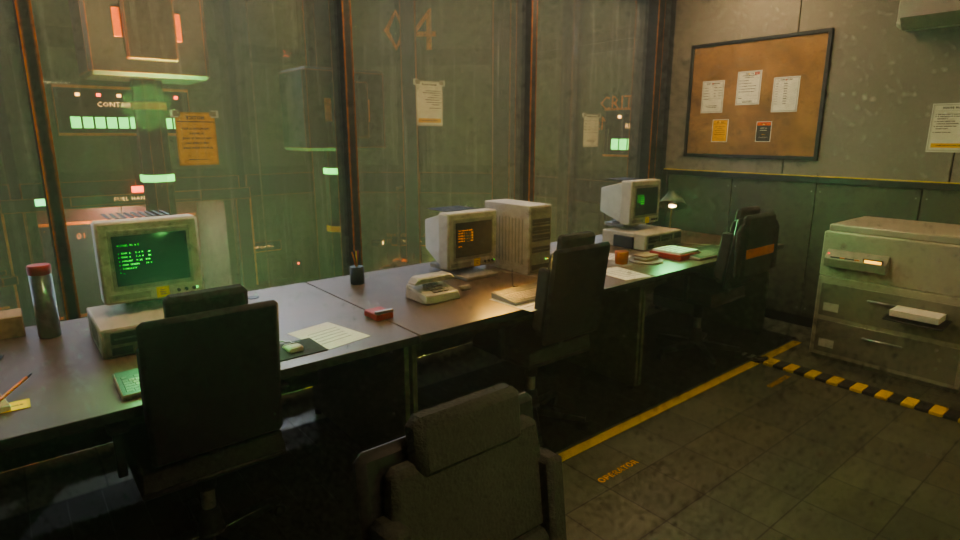
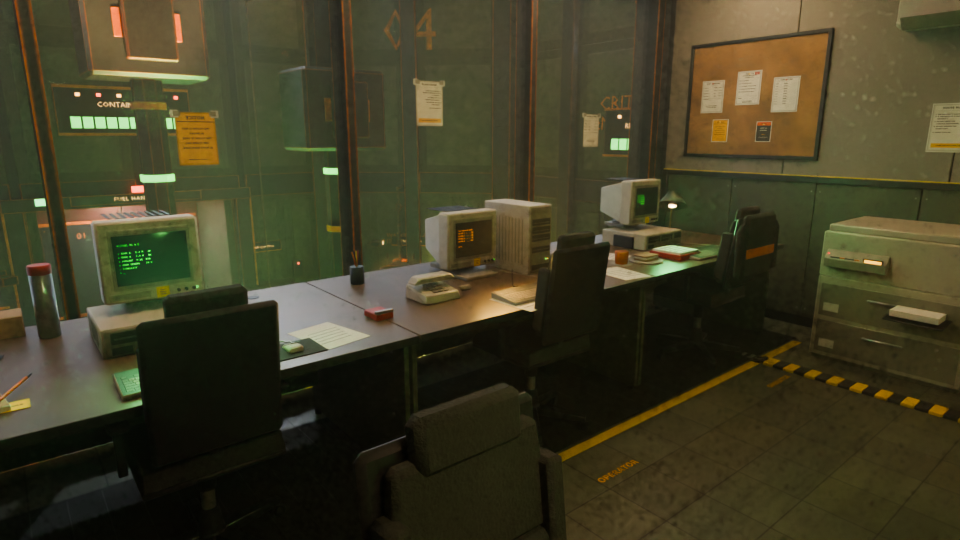
Control room: window glass fully clear (no film, streaks or tint)
Claude-Session: https://claude.ai/code/session_01MZn6W3mktoSNAd4EhQyGwJ

diff --git a/sections/reactor-room/production/overhaul-R1/scripts/cr_extra.py b/sections/reactor-room/production/overhaul-R1/scripts/cr_extra.py
@@ -1,4 +1,4 @@
-"""Second pass on the control room: door leaf, grime and floor work, emergency beacons, personal desk items, dirty hall-side glass with notices,
+"""Second pass on the control room: door leaf, grime and floor work, emergency beacons, personal desk items, clear hall-side glass with taped notices,
 wall lettering and floor markings, collision proxies, haze.  Each function is independent and idempotent with cr_build.py."""
 import bpy,math,random
 import numpy as np
@@ -103,16 +103,9 @@ def window_dressing(c):
     A,M=c.A,c.M; _misc_mats(c); g="glassnote"
     gl=bpy.data.objects.get("MZ window glass")
     if gl:
-        m=crk._new("CR window glass dirty"); nt=m.node_tree
+        m=crk._new("CR window glass clear"); nt=m.node_tree                                                                                 # clear on request: no film, no streaks, no tint
         out=crk._n(nt,"ShaderNodeOutputMaterial",900,0); b=crk._n(nt,"ShaderNodeBsdfPrincipled",600,0); nt.links.new(b.outputs['BSDF'],out.inputs['Surface'])
-        b.inputs['Base Color'].default_value=(0.55,0.58,0.57,1); b.inputs['IOR'].default_value=1.45
-        b.inputs['Base Color'].default_value=(0.62,0.64,0.63,1)
-        geo=crk._n(nt,"ShaderNodeNewGeometry",-900,0); mp=crk._n(nt,"ShaderNodeMapping",-700,0); mp.inputs['Scale'].default_value=(9.0,9.0,0.45); nt.links.new(geo.outputs['Position'],mp.inputs['Vector'])   # vertical run streaks
-        n1=crk._n(nt,"ShaderNodeTexNoise",-500,100); n1.inputs['Scale'].default_value=2.4; n1.inputs['Detail'].default_value=4.0; nt.links.new(mp.outputs['Vector'],n1.inputs['Vector'])
-        r1=crk._n(nt,"ShaderNodeMapRange",-250,100); r1.inputs['From Min'].default_value=0.60; r1.inputs['From Max'].default_value=0.80; nt.links.new(n1.outputs['Fac'],r1.inputs['Value'])     # sparse streaks only
-        ra=crk._n(nt,"ShaderNodeMath",0,150); ra.operation='MULTIPLY_ADD'; ra.inputs[1].default_value=0.20; ra.inputs[2].default_value=0.10; nt.links.new(r1.outputs['Result'],ra.inputs[0])             # alpha 0.10 clear .. 0.30 streak
-        rr=crk._n(nt,"ShaderNodeMath",0,-50); rr.operation='MULTIPLY_ADD'; rr.inputs[1].default_value=0.30; rr.inputs[2].default_value=0.03; nt.links.new(r1.outputs['Result'],rr.inputs[0])             # roughness 0.03 .. 0.33
-        nt.links.new(rr.outputs['Value'],b.inputs['Roughness']); nt.links.new(ra.outputs['Value'],b.inputs['Alpha'])
+        b.inputs['Base Color'].default_value=(0.95,0.97,0.96,1); b.inputs['IOR'].default_value=1.45; b.inputs['Roughness'].default_value=0.0; b.inputs['Alpha'].default_value=0.03   # faint reflection only
         gl.data.materials.clear(); gl.data.materials.append(m)
     for (k,x,z,w,h) in (("form",-3.55,7.12,0.21,0.30),("safety",-2.30,6.98,0.21,0.29),("rules",-0.72,7.22,0.23,0.31),("roster",1.05,7.04,0.21,0.29)):
         wall_quad(c,'+y',-5.99,x,z,w,h,"N_"+k,frame=False,off=0.0015,g=g,paper=False)

diff --git a/sections/reactor-room/production/overhaul-R1/README.md b/sections/reactor-room/production/overhaul-R1/README.md
@@ -230,3 +230,7 @@ Order after `cr_build.py`: `cr_optimize.py` -> `cr_atlas_decals.py` -> `cr_famil
 ### Walk-through video
 
 `scripts/cr_flythrough.py -- <blend> <out_dir> [--frames 48 --w 854 --h 480 --samples 8]` renders an eye-height route through the control room (door, shelves, work table, TV wall, rack, desks, window, out over the hall) as a PNG sequence plus a contact sheet. The shipped `renders/overhaul-R1/control_room_walkthrough.mp4` is 48 rendered frames (854x480, 8 samples, denoised, Cycles) interpolated to 24 fps by blending (3.9 s), made with an FFmpeg binary from `pip install imageio-ffmpeg` (the headless Blender build has none). Rendering costs 30-40 s per frame whatever the resolution or samples (69 lights in the module), so a longer walk is slow. Path-traced authoring render, not an engine capture; no frame rate was measured.
+
+### Window glass
+
+The hall-side window glass is now fully clear (`CR window glass clear`: alpha 0.03, roughness 0, no film, no streaks, no tint); the taped notices stay. The shipped blend was patched directly and `cr_extra.window_dressing` rebuilds the same material. The walk-through video and the lightmaps were made before this change, so both are stale on the glass (the lightmaps are parked anyway).
